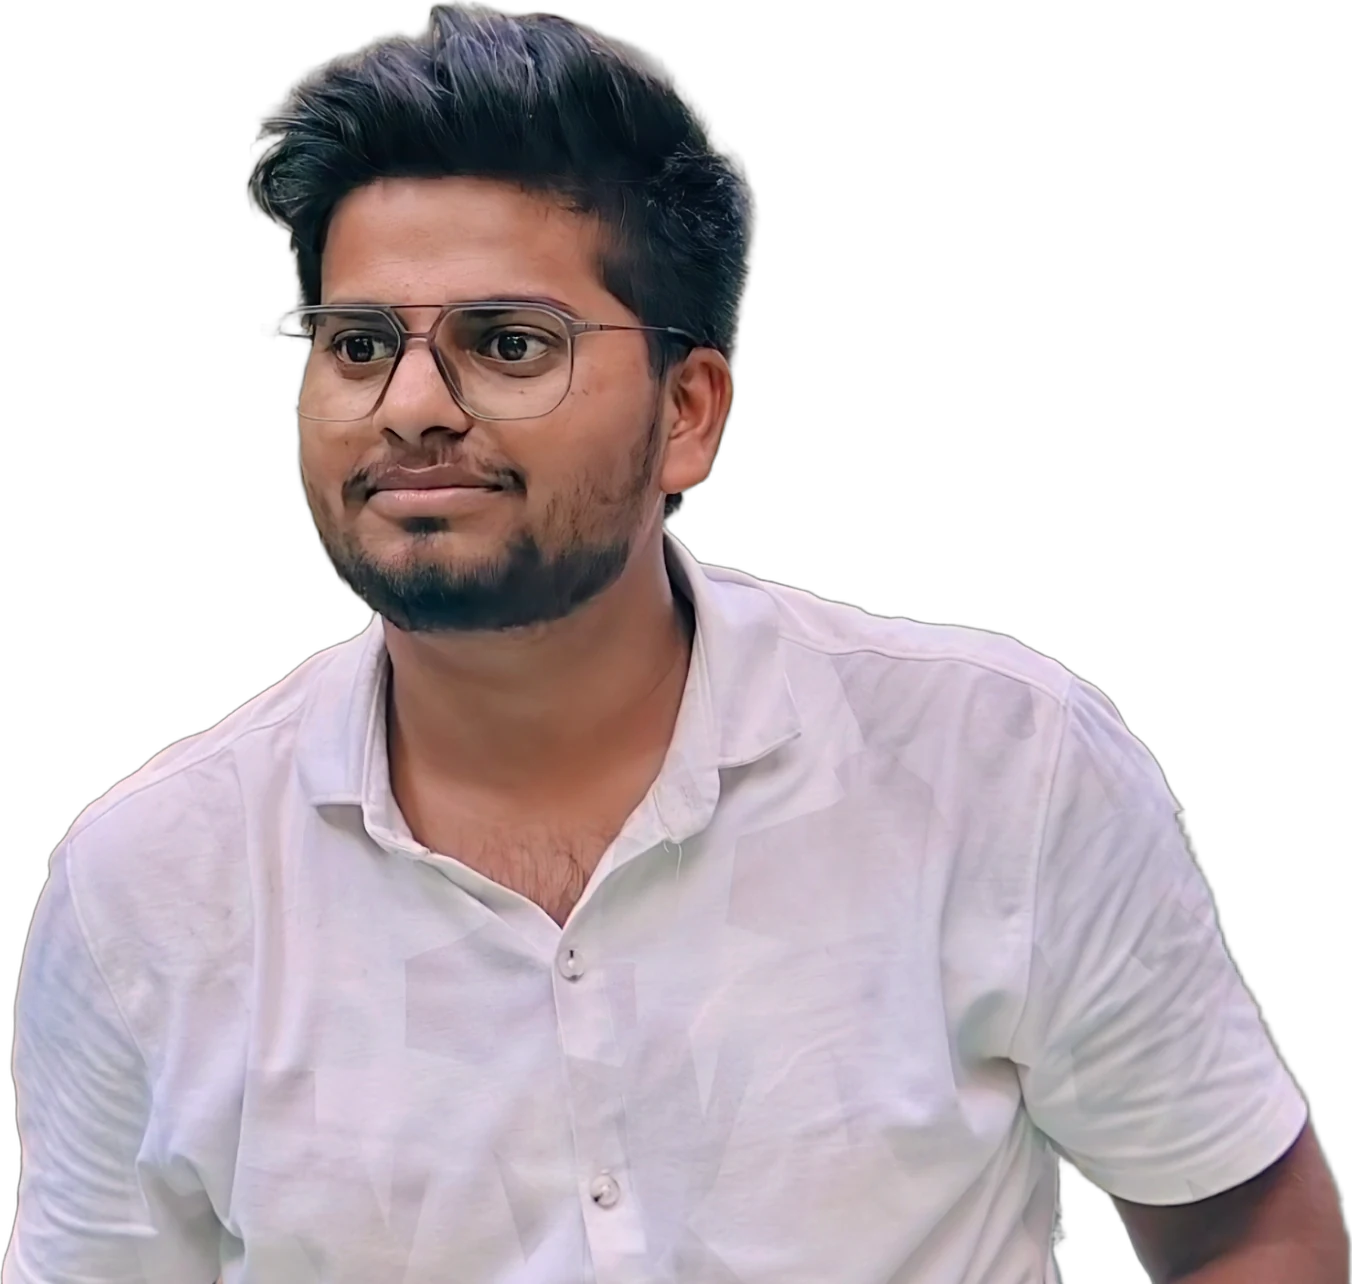
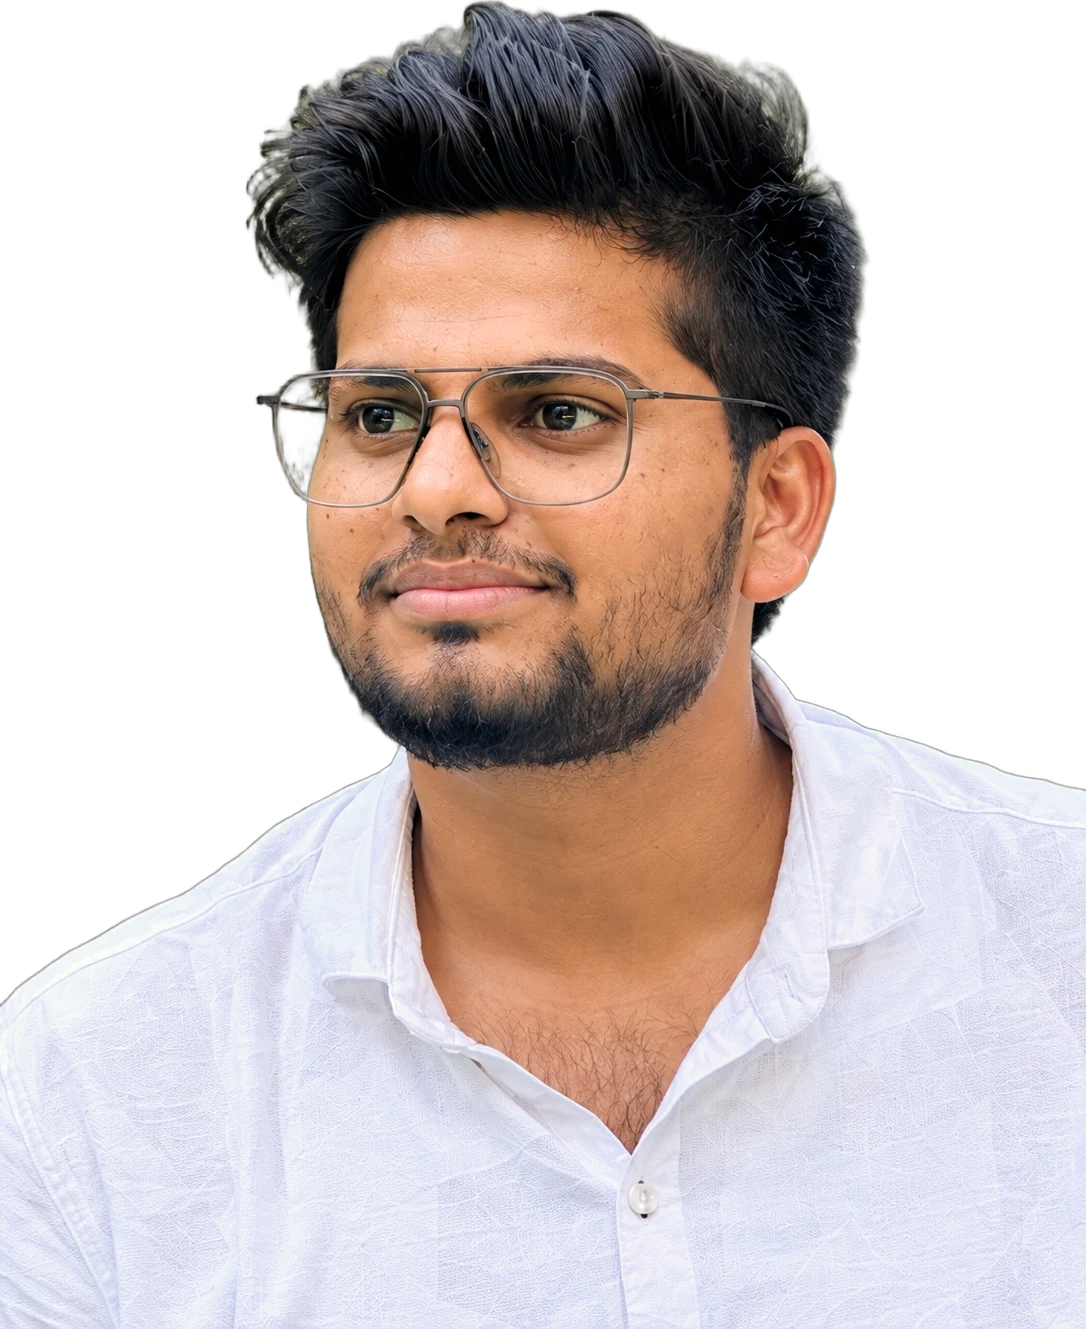
Use Abhimanyu's and Jiyaa's new portraits on the cover and their house cards

diff --git a/js/data.js b/js/data.js
@@ -124,10 +124,10 @@ window.CRS = {
   houses: [
     { id: "pichavaram", name: "Pichavaram", rc: "Angad Jangir", photo: "assets/people/angad.webp", head: [0.47, 0.37, 0.27], tint: "#c9a24e", featured: true,
       line: "Designed and built this showcase. Hosted the region's first-ever Sikar meetup, Jantar Mantar and the Albert Hall photowalk." },
-    { id: "kaziranga", name: "Kaziranga", rc: "Abhimanyu Kumar Patel", short: "Abhimanyu", photo: "assets/people/abhimanyu.webp", head: [0.37, 0.29, 0.17], tint: "#2a7a5c" },
+    { id: "kaziranga", name: "Kaziranga", rc: "Abhimanyu Kumar Patel", short: "Abhimanyu", photo: "assets/people/abhimanyu.webp", head: [0.47, 0.3, 0.25], tint: "#2a7a5c" },
     { id: "sundarbans", name: "Sundarbans", rc: "Prashansa Uniyal", photo: null, tint: "#c8873a" },
     { id: "nallamala", name: "Nallamala", rc: "Akshi", photo: null, tint: "#8a5a7a" },
-    { id: "bandipur", name: "Bandipur", rc: "Jiyaa", photo: "assets/people/bandipur.webp", head: [0.503, 0.4, 0.17], tint: "#3b7fc4" },
+    { id: "bandipur", name: "Bandipur", rc: "Jiyaa", photo: "assets/people/bandipur.webp", head: [0.51, 0.34, 0.2], tint: "#3b7fc4" },
     { id: "kanha", name: "Kanha", rc: "Manisha", photo: null, tint: "#c47a4a" },
     { id: "namdapha", name: "Namdapha", rc: "Himanshu", photo: "assets/people/himanshu.webp", head: [0.491, 0.293, 0.234], tint: "#7b3fe0" },
     { id: "corbett", name: "Corbett", rc: "Khush Agrawal", photo: "assets/people/corbett.webp", head: [0.535, 0.296, 0.206], tint: "#c39a2e" },
